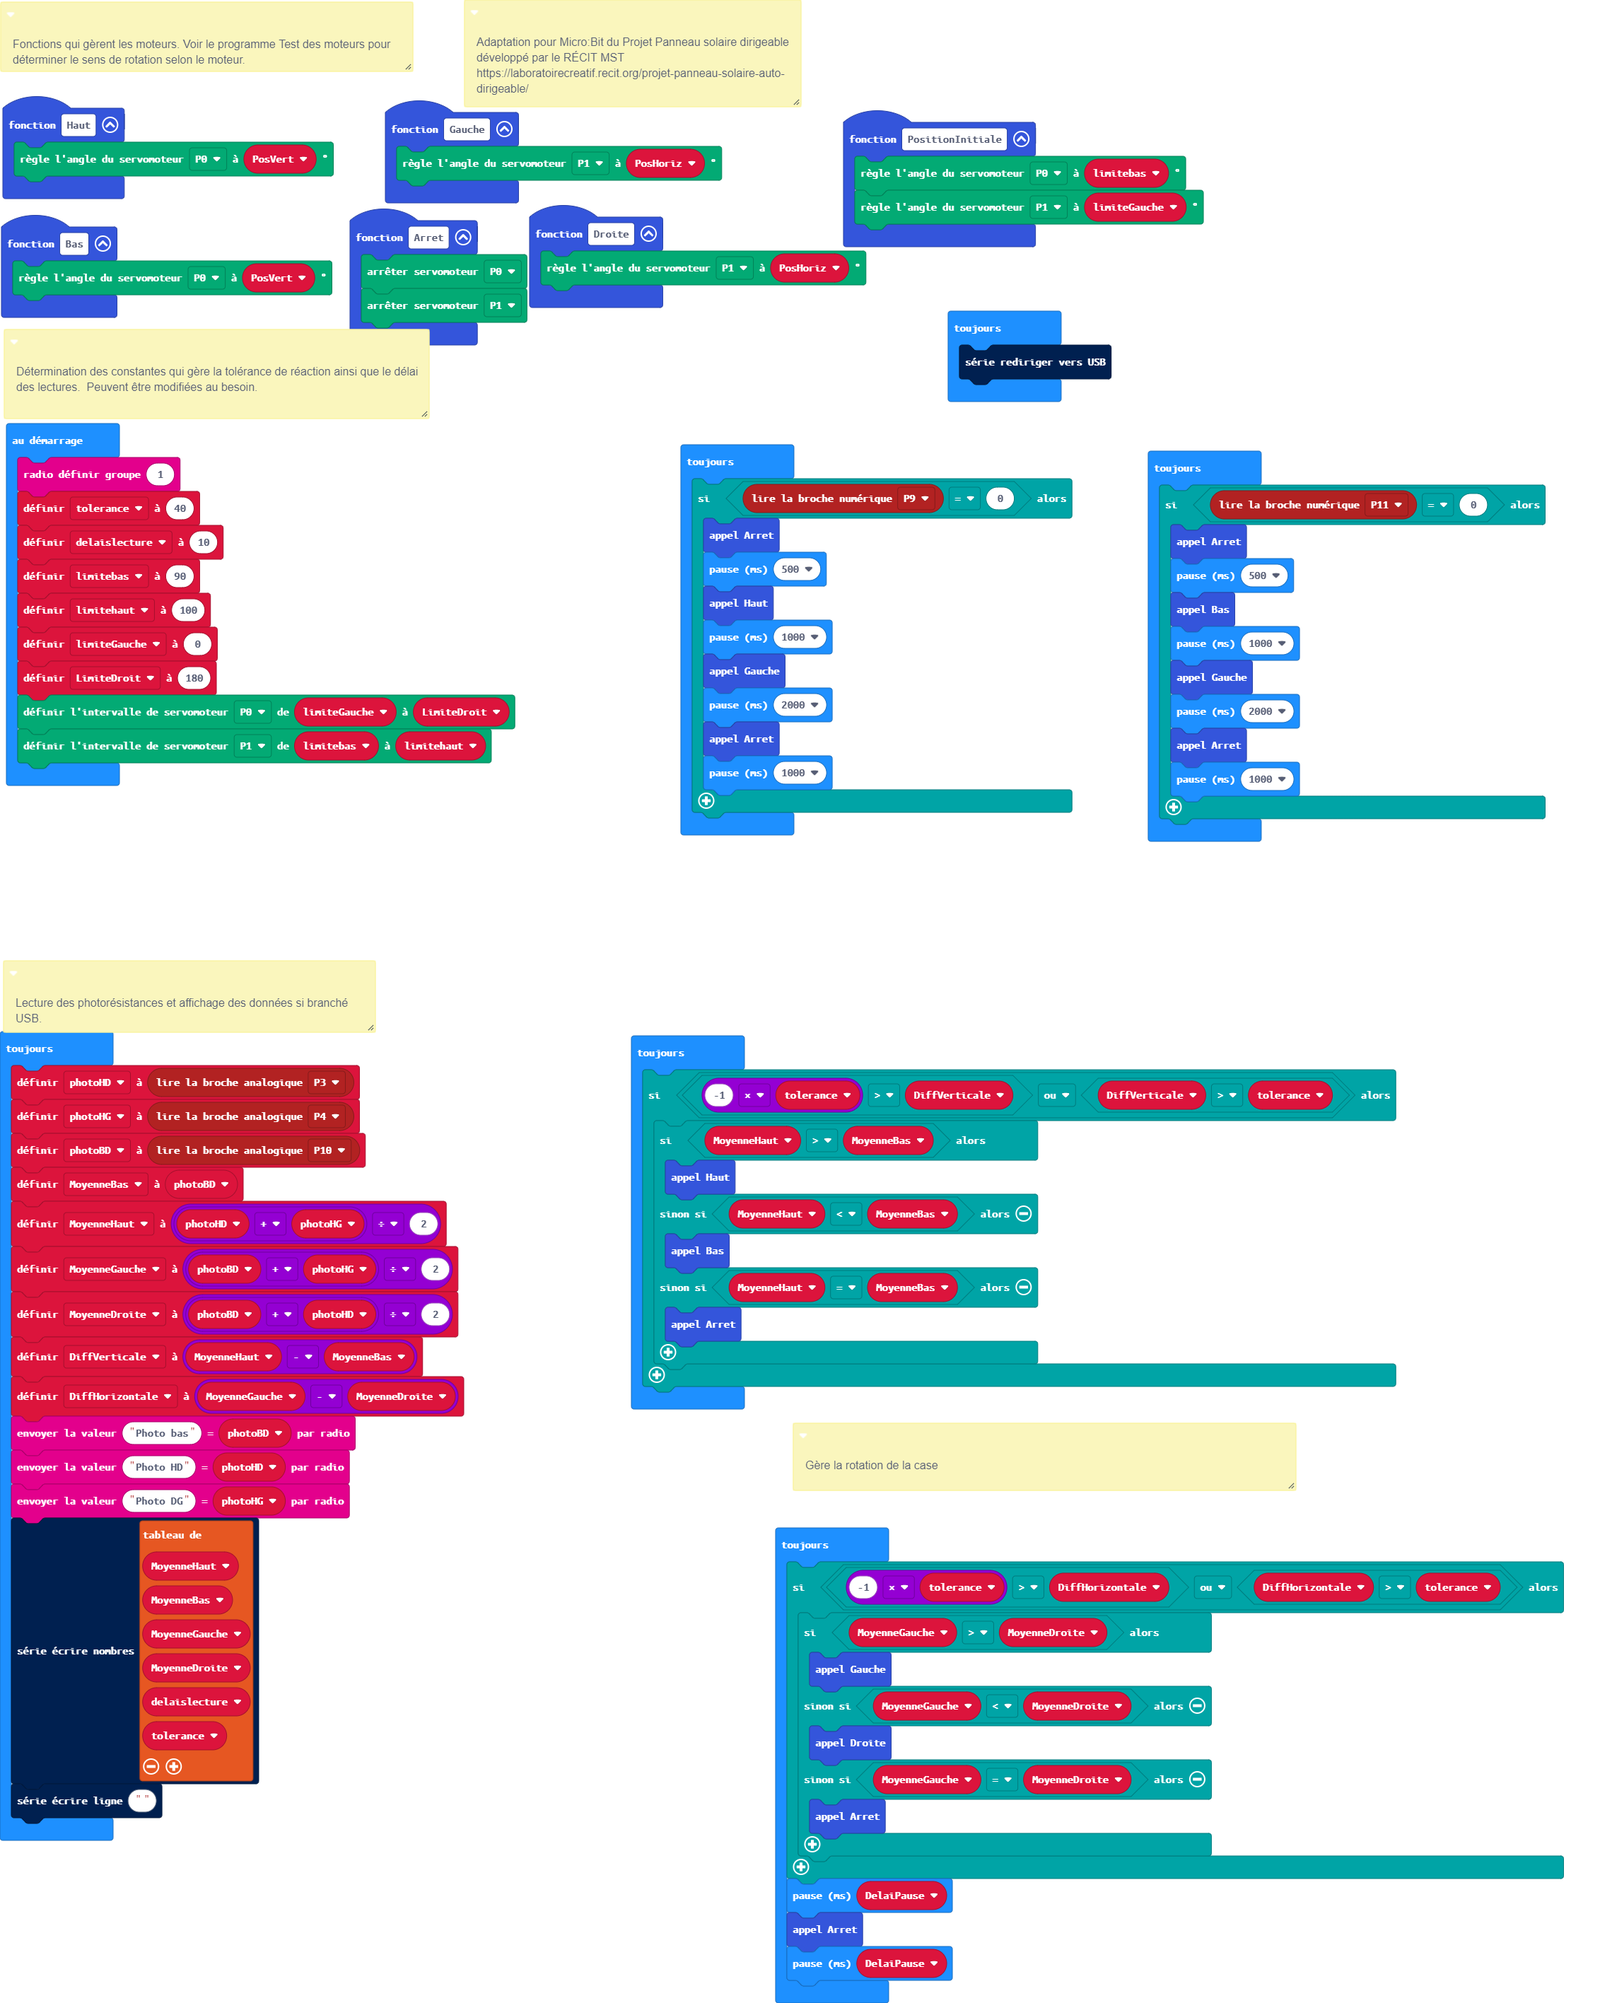
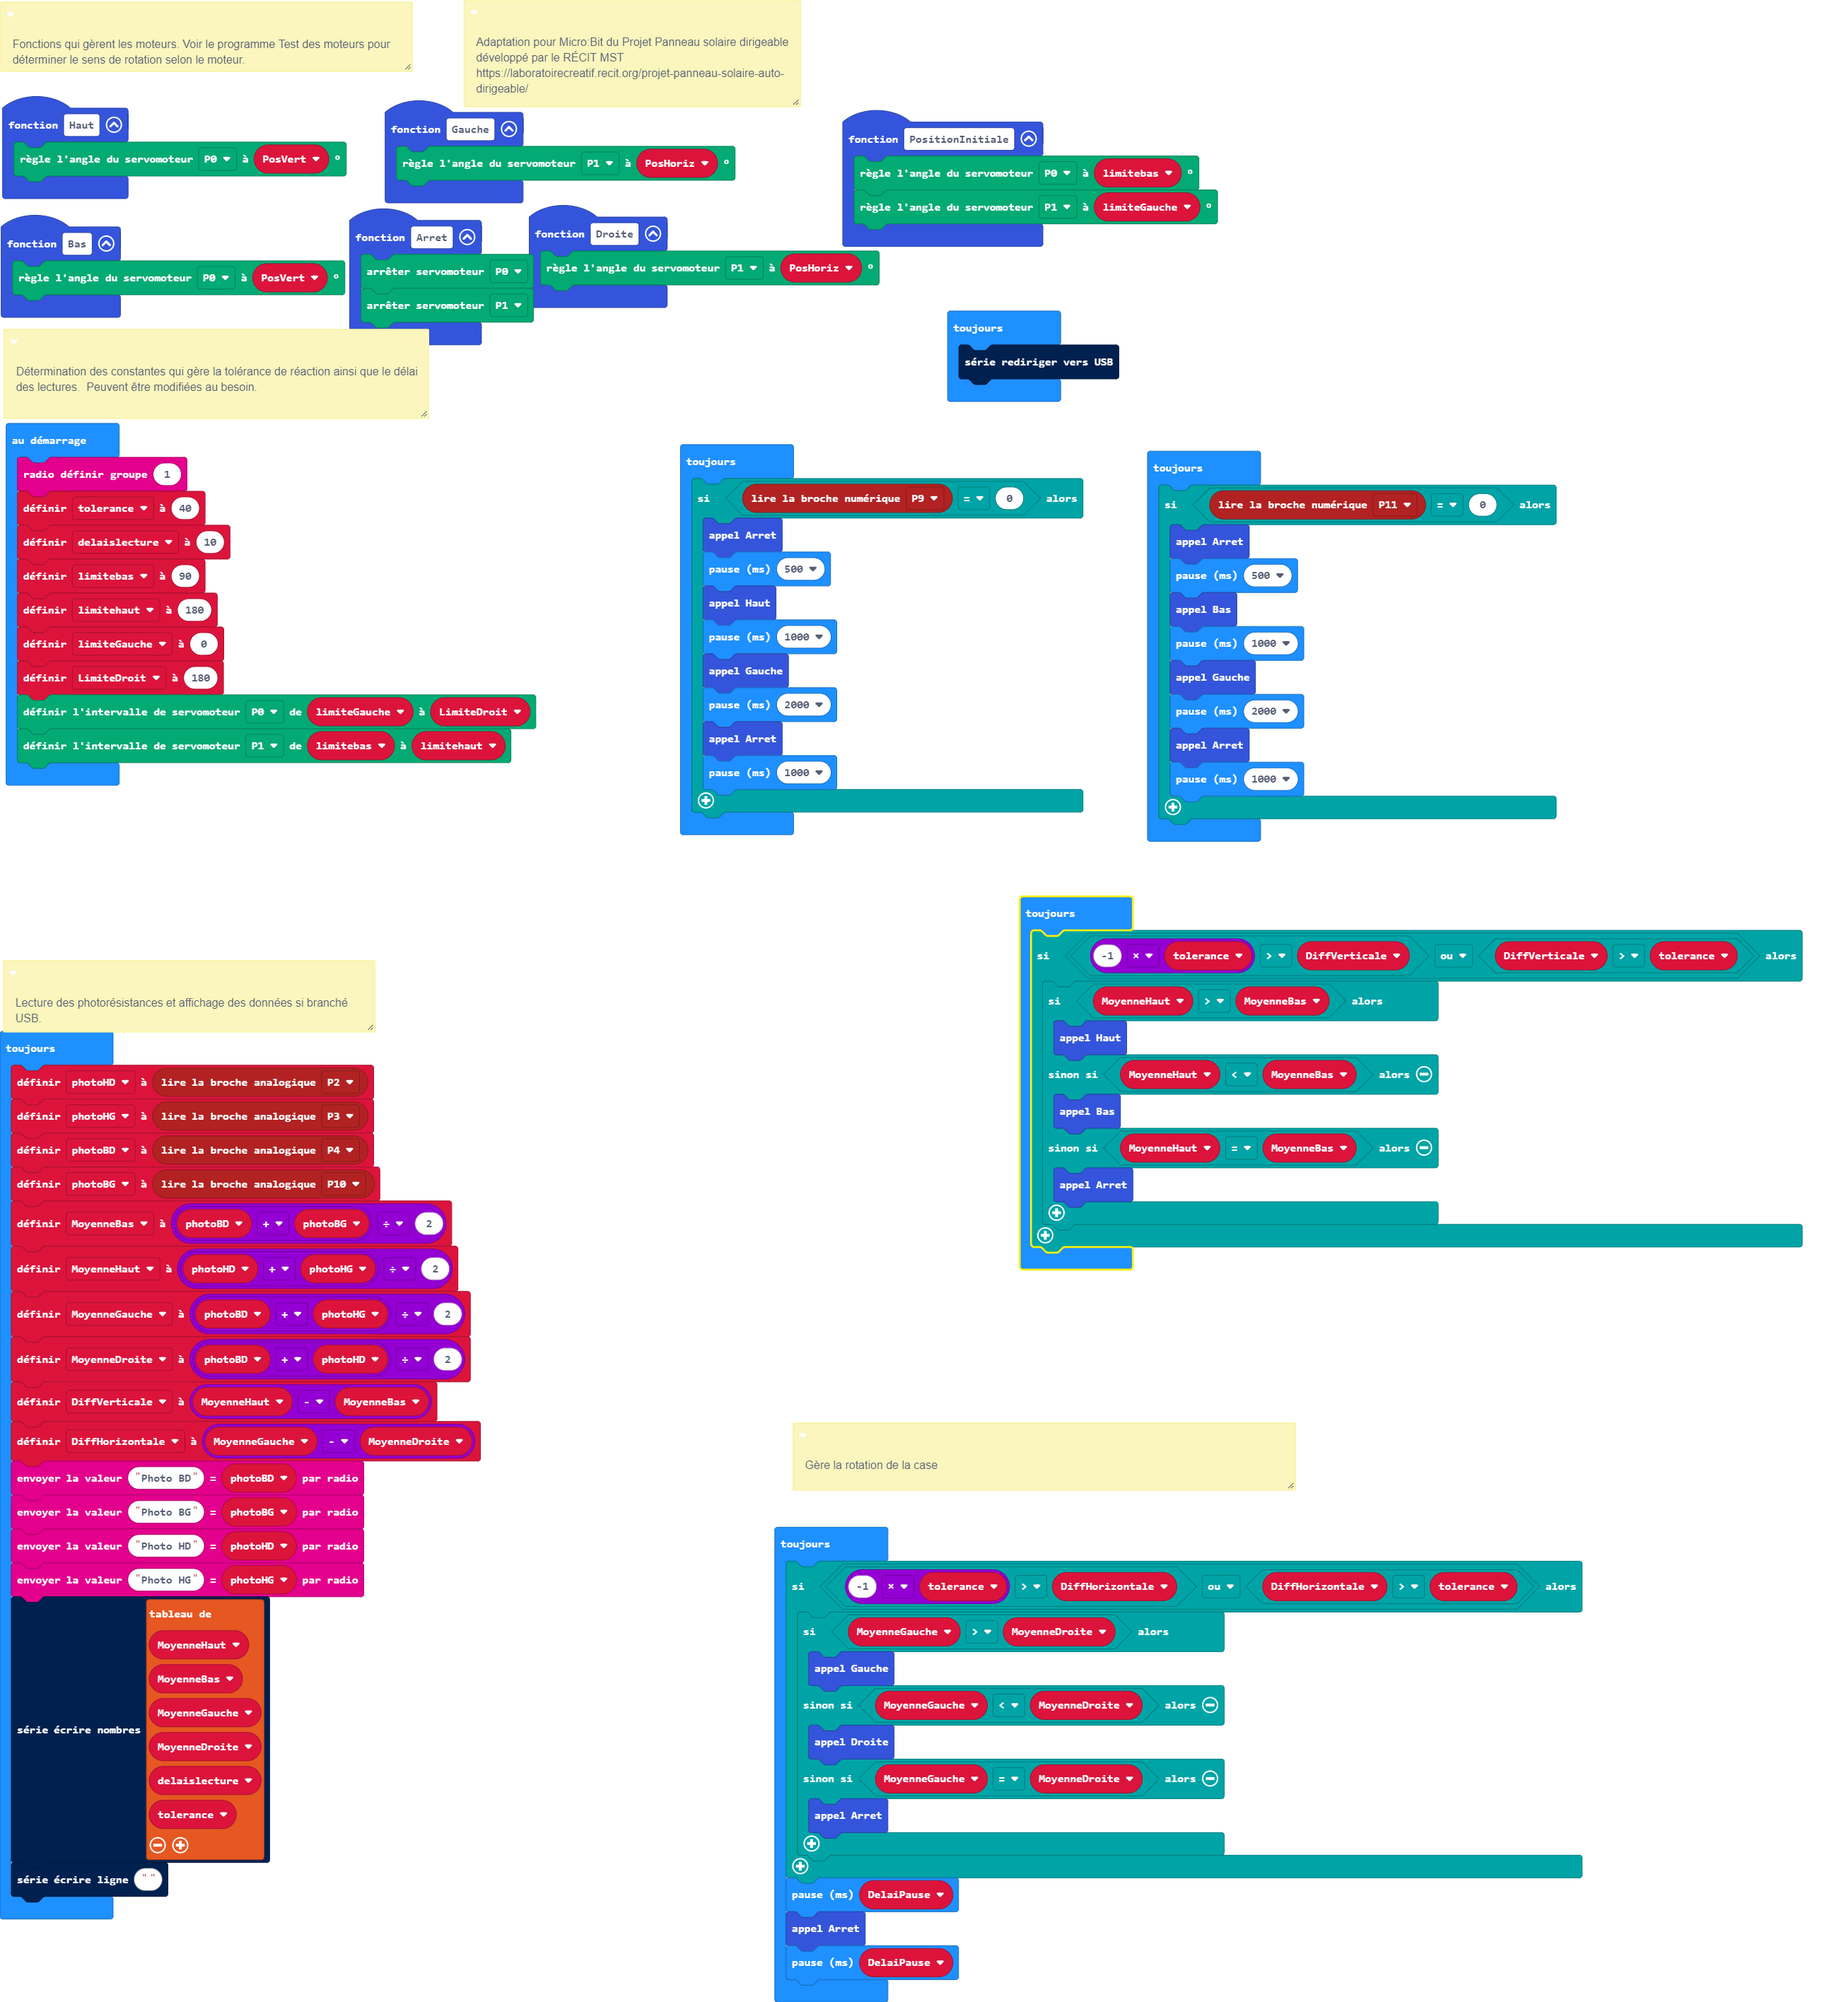
Mettre à jour main.blocks, main.ts

diff --git a/main.ts b/main.ts
@@ -30,14 +30,15 @@ function Bas () {
     servos.P0.setAngle(PosVert)
 }
 let DiffHorizontale = 0
-let DiffVerticale = 0
 let MoyenneDroite = 0
 let MoyenneGauche = 0
-let MoyenneHaut = 0
-let MoyenneBas = 0
+let photoBG = 0
 let photoBD = 0
 let photoHG = 0
 let photoHD = 0
+let MoyenneBas = 0
+let MoyenneHaut = 0
+let DiffVerticale = 0
 let PosVert = 0
 let PosHoriz = 0
 let limiteGauche = 0
@@ -46,7 +47,7 @@ radio.setGroup(1)
 let tolerance = 40
 let delaislecture = 10
 limitebas = 90
-let limitehaut = 100
+let limitehaut = 180
 limiteGauche = 0
 let LimiteDroit = 180
 servos.P0.setRange(limiteGauche, LimiteDroit)
@@ -78,28 +79,6 @@ basic.forever(function () {
         basic.pause(1000)
     }
 })
-/**
- * Lecture des photorésistances et affichage des données si branché USB.
- */
-basic.forever(function () {
-    photoHD = pins.analogReadPin(AnalogPin.P3)
-    photoHG = pins.analogReadPin(AnalogPin.P4)
-    photoBD = pins.analogReadPin(AnalogPin.P10)
-    MoyenneBas = photoBD
-    MoyenneHaut = (photoHD + photoHG) / 2
-    MoyenneGauche = (photoBD + photoHG) / 2
-    MoyenneDroite = (photoBD + photoHD) / 2
-    DiffVerticale = MoyenneHaut - MoyenneBas
-    DiffHorizontale = MoyenneGauche - MoyenneDroite
-    radio.sendValue("Photo bas", photoBD)
-    radio.sendValue("Photo HD", photoHD)
-    radio.sendValue("Photo DG", photoHG)
-    serial.writeNumbers([MoyenneHaut, MoyenneBas, MoyenneGauche, MoyenneDroite, delaislecture, tolerance])
-    serial.writeLine("")
-})
-/**
- * Gère la rotation de la case
- */
 basic.forever(function () {
     if (-1 * tolerance > DiffVerticale || DiffVerticale > tolerance) {
         if (MoyenneHaut > MoyenneBas) {
@@ -111,6 +90,30 @@ basic.forever(function () {
         }
     }
 })
+/**
+ * Lecture des photorésistances et affichage des données si branché USB.
+ */
+basic.forever(function () {
+    photoHD = pins.analogReadPin(AnalogPin.P2)
+    photoHG = pins.analogReadPin(AnalogPin.P3)
+    photoBD = pins.analogReadPin(AnalogPin.P4)
+    photoBG = pins.analogReadPin(AnalogPin.P10)
+    MoyenneBas = (photoBD + photoBG) / 2
+    MoyenneHaut = (photoHD + photoHG) / 2
+    MoyenneGauche = (photoBD + photoHG) / 2
+    MoyenneDroite = (photoBD + photoHD) / 2
+    DiffVerticale = MoyenneHaut - MoyenneBas
+    DiffHorizontale = MoyenneGauche - MoyenneDroite
+    radio.sendValue("Photo BD", photoBD)
+    radio.sendValue("Photo BG", photoBG)
+    radio.sendValue("Photo HD", photoHD)
+    radio.sendValue("Photo HG", photoHG)
+    serial.writeNumbers([MoyenneHaut, MoyenneBas, MoyenneGauche, MoyenneDroite, delaislecture, tolerance])
+    serial.writeLine("")
+})
+/**
+ * Gère la rotation de la case
+ */
 basic.forever(function () {
     let DelaiPause = 0
     if (-1 * tolerance > DiffHorizontale || DiffHorizontale > tolerance) {
